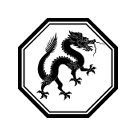
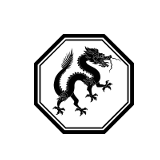
changes to background. wood with notebook. centered links and heading. not finished product

diff --git a/Style/ChineseZodiac.css b/Style/ChineseZodiac.css
@@ -1,7 +1,7 @@
 body {
 	font-family: arial;
 	background-color: #eee;
-	background-image: url("../Images/background2.png");
+	background-image: url("../Images/woodBackground.png");
 	background-repeat: no-repeat;
 	height: 100%;
 	width: 100%;
@@ -13,11 +13,14 @@ body {
 	width: 80%;
 	height: auto;
 	position:absolute;
-	bottom:0px;
+	top:0px;
 	right:0px;
 }
 
 #signs{
-	float: right;
+	position:absolute;
+    width:100%;
+    bottom:0;
+    text-align:center;
 }
 

diff --git a/12signs.html b/12signs.html
@@ -24,7 +24,7 @@
 		<a href="pig.html"><img src="Images/boar.png" alt="Pig"</img></a> &nbsp;
 	</div>
 	<div id="symbol">
-		<img src="Images/dragonSymbol.png">
+		<img src="Images/DragonAndMainTitle.png">
 	</div>
 </body> 
 </html>
